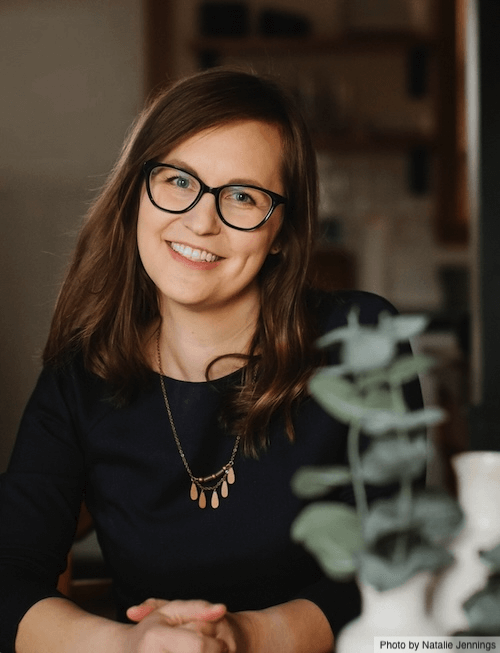
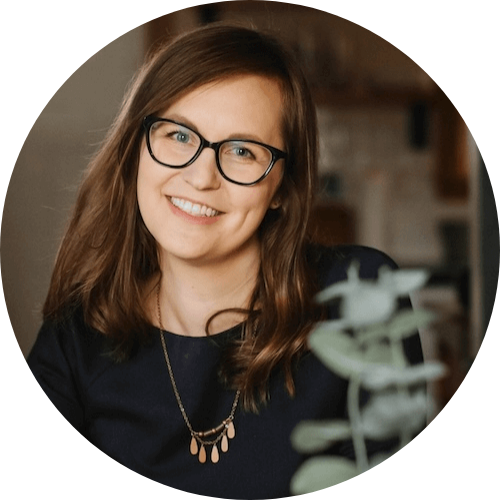
Changed image, adjusted styles

diff --git a/css/style.css b/css/style.css
@@ -121,13 +121,22 @@ ol {
 
 figure {
   display: flex;
+  flex-wrap: wrap;
   justify-content: center;
+}
+
+figcaption {
+  color: var(--primary-color);
+  font-size: .85em;
+  font-style: italic;
+  justify-content: right;
 }
 
 img {
   width: 100%;
   border-radius: 5px;
   height: auto;
+  align-self: center;
 }
 
 a {
@@ -150,14 +159,14 @@ h2 {
 
 h3 {
   font-family: "Source Sans 3", Arial, Helvetica, sans-serif;
-  font-size: 1.75em;
+  font-size: 1.25em;
   font-weight:normal;
   margin: 0.5em 0em;
 }
 
 h4 {
   font-family: "Source Sans 3", Arial, Helvetica, sans-serif;
-  font-size: 1.25em;
+  font-size: 1.15em;
   font-weight:600;
   line-height: .1em;
   margin: 1em 0em 0.5em 0em;
@@ -173,6 +182,7 @@ h5 {
 
 .content-wrapper {
   flex-wrap: wrap;
+  margin: 0;
   padding: 0.1em 1.5em 1.5em 1.5em;
 }
 
@@ -210,6 +220,8 @@ h5 {
 /*-- Header Styles --*/
 
 header {
+  display: flex;
+  justify-content: center;
   background-color: var(--secondary-color);
   padding: .5em;
   margin: 0;
@@ -220,6 +232,7 @@ nav {
   background-color: var(--secondary-color);
   padding: .5em;
   width: 100%;
+  margin: 0;
   font-size: 1.125em;
   font-weight: bold;
   text-transform: uppercase;
@@ -261,8 +274,8 @@ nav ul li a:hover {
   width: 100%;
 }
 
-#about .img {
-  align-self: center;
+#about figure {
+  justify-content: right;
 }
 
 #about ul {
@@ -272,6 +285,9 @@ nav ul li a:hover {
 #skills {
   background: var(--tertiary-color-4);
   color: var(--primary-color);
+  padding: .5em;
+  margin: 0;
+  width: 100%;
 }
 
 #skills ul {
@@ -300,7 +316,7 @@ nav ul li a:hover {
   flex-direction: column;
   border-radius: 25px;
   border: 2px solid var(--border-color);
-  padding: 1em 2em;
+  padding: 1em 1em;
   margin: 2em 0em;
 }
 
@@ -325,6 +341,7 @@ nav ul li a:hover {
 
 .button {
   display: flex;
+  font-size: 1.15em;
   background-color: var(--tertiary-color-2);
   border: none;
   border-radius: 5px;
@@ -332,7 +349,6 @@ nav ul li a:hover {
   text-align: center;
   text-decoration: none;
   display: inline-block;
-  font-size: 16px;
   margin: 4px 2px;
   cursor: pointer;
   -webkit-transition-duration: 0.4s; /* Safari */
@@ -353,7 +369,9 @@ footer {
   display: flex;
   justify-content: center;
   background-color: var(--secondary-color);
-  padding: 1em;
+  padding: .5em;
+  margin: 0;
+  width: 100%;
 }
 
 footer ul {
@@ -363,7 +381,7 @@ footer ul {
 footer p {
   display: flex;
   font-size: .9em;
-  text-align: center;  
+  justify-content: center;  
 }
 
 /* ==========================================================================
@@ -453,6 +471,7 @@ footer p {
   /* Style adjustments for viewports that meet the condition */
   #about .content-wrapper {
     justify-content: space-around;
+    flex-wrap: nowrap;
     flex-direction: row-reverse;
   }
 

diff --git a/index.html b/index.html
@@ -34,7 +34,7 @@
   <button onclick="topFunction()" id="goToTopButton" title="Go to top"><i class="fa-solid fa-arrow-up"></i></button>
 
   <header>
-      <h1>Alison Holland, EdD | Full Stack Developer</h1>
+    <h1>Alison Holland, EdD | Full Stack Developer</h1>
   </header>
 
   <nav id="main">
@@ -50,19 +50,21 @@
     <section id="about">
       <div class="content-wrapper">
         <figure>
-          <img src="img/on-the-ice.png" alt="">
+          <img src="img/Alison.png" alt=""></br>
+          <figcaption>Photo by Natalie Jennings</figcaption>
         </figure>
         <div class="text">
           <h2>Hi, I’m Alison.</h2>
           <h3>I love solving problems!</h3>
           <p>
-            I’m a natural planner, systems-thinker, and puzzler who enjoys helping people and learning new technologies. A long-time learning designer and former county commissioner, I know how to break down complex topics and turn jargon into plain language.
+            I’m a natural planner, systems-thinker, and puzzler who enjoys helping people and learning new technologies. 
           </p>
           <p> 
             A true Minnesotan and nature-lover, one of my favorite days at work was spent sawing through ice with environmental scientists to take 360° images of invasive watermilfoil for an educational program.
           </p>
           <p>
-            After working across the field of education – including nearly a decade in digital learning design – and serving in local government, I’m excited to bring my cross-disciplinary collaboration experience, communication skills, and love of learning to a new role as a full stack developer.
+            After working across the field of education – including nearly a decade in digital learning design – and serving in local government as a County Commissioner, I know how to break down complex topics and turn jargon into plain language.
+            I’m excited to bring my collaboration experience, communication skills, and love of learning to a new role as a full stack developer.
           </p>
           <div class="social">
             <ul>
@@ -203,8 +205,8 @@
             <li><a href="https://scholar.google.com/citations?hl=en&user=dTVgryYAAAAJ" target="_blank" class="fa-brands fa-google-scholar" aria-label="View Google Scholar profile"></a></li>
           </ul>
         </div>
-        <p>Alison Holland, EdD | alison@andersonholland.com | ©2024 - <span id="currentYear"></span>
-        </p>
+        <p>Alison Holland, EdD | alison@andersonholland.com</p>
+        <p>©2024 - <span id="currentYear"></span></p>
       </div>
     </section>
   </footer>
